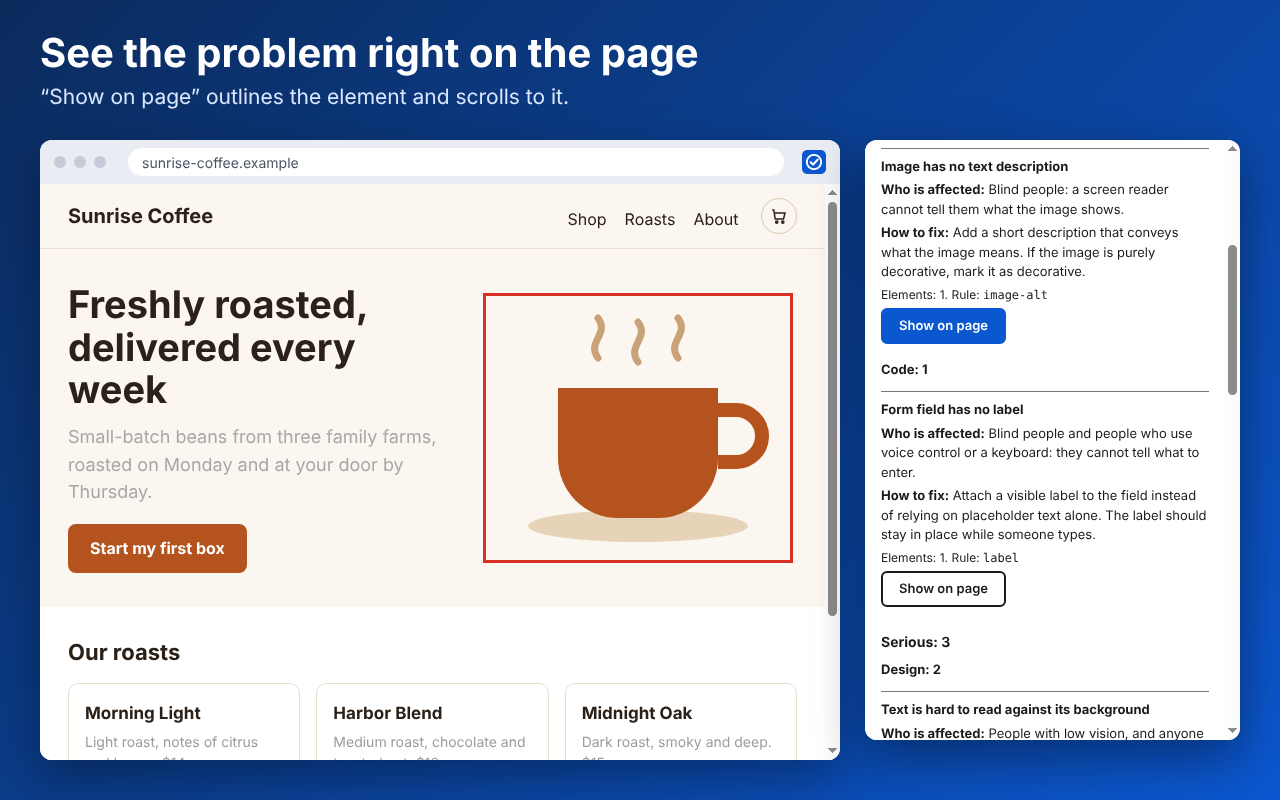
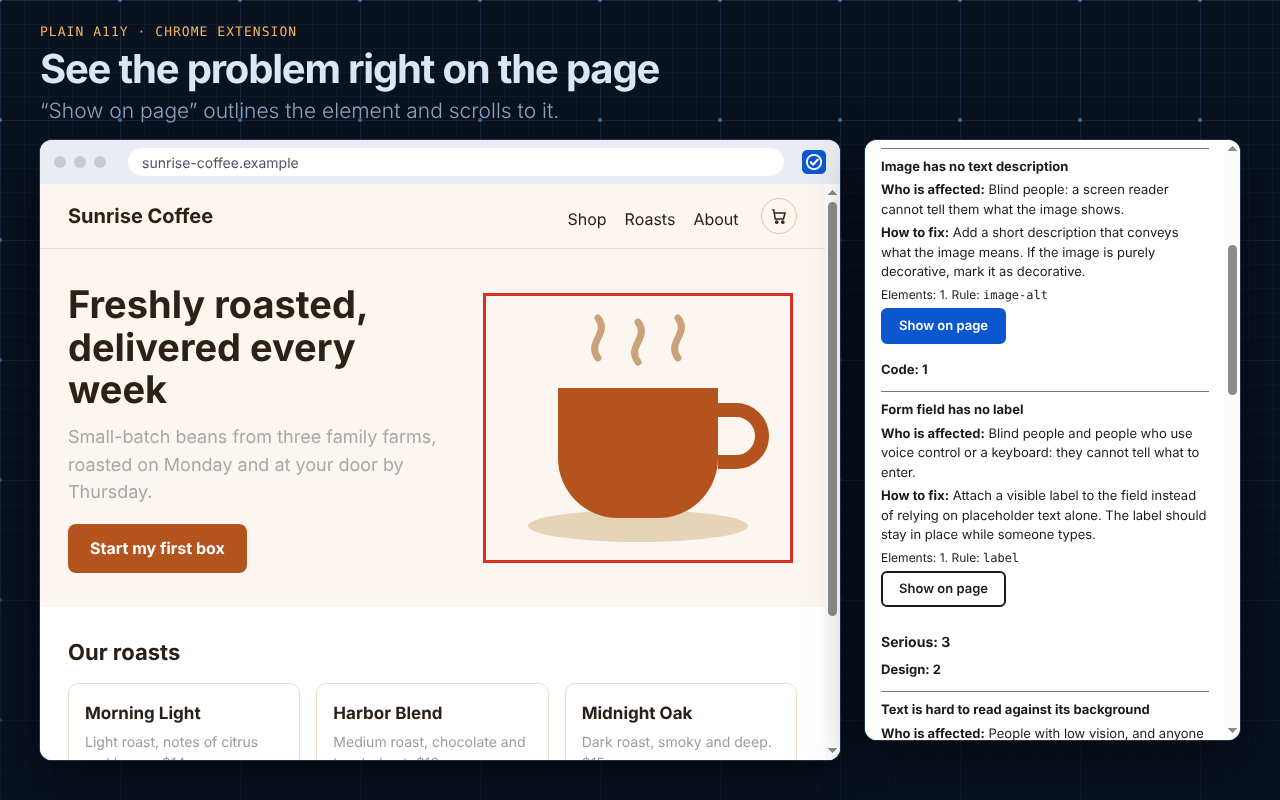
Store screenshots in the colors and fonts of the website
Claude-Session: https://claude.ai/code/session_012Dn7UsQVaKqD7whyVmPans

Changed region(s): [[0.0, 0.0, 1.0, 1.0]]

diff --git a/store/listing.md b/store/listing.md
@@ -49,7 +49,7 @@ Host access (`host_permissions`) is not requested. There is no remotely loaded c
 ## Graphics
 
 - Icons 16, 48 and 128 px: `src/public/icon/`, generated by `npm run icons` from `scripts/icon.svg`.
-- Screenshots 1280×800, 24-bit PNG without transparency, in `store/screenshots/`. They are real: the built extension runs in Chromium against the fictional demo shop in `store/demo/`, and the popup and the page are photographed as they are. Only the frame around them (headline, window, ticket) is drawn. The store accepts up to 5 screenshots, so upload these five, in this order:
+- Screenshots 1280×800, 24-bit PNG without transparency, in `store/screenshots/`. They are real: the built extension runs in Chromium against the fictional demo shop in `store/demo/`, and the popup and the page are photographed as they are. Only the frame around them (headline, window, ticket) is drawn, in the colors and fonts of the website (the “Engineering Blueprint” theme of bereg.dev). The store accepts up to 5 screenshots, so upload these five, in this order:
   1. `02-grouped-by-severity-and-role.png`: problems grouped by severity and by role.
   2. `03-plain-language-explanation.png`: what is wrong, who it affects, how to fix it.
   3. `04-show-problem-on-page.png`: the problem outlined on the page.
